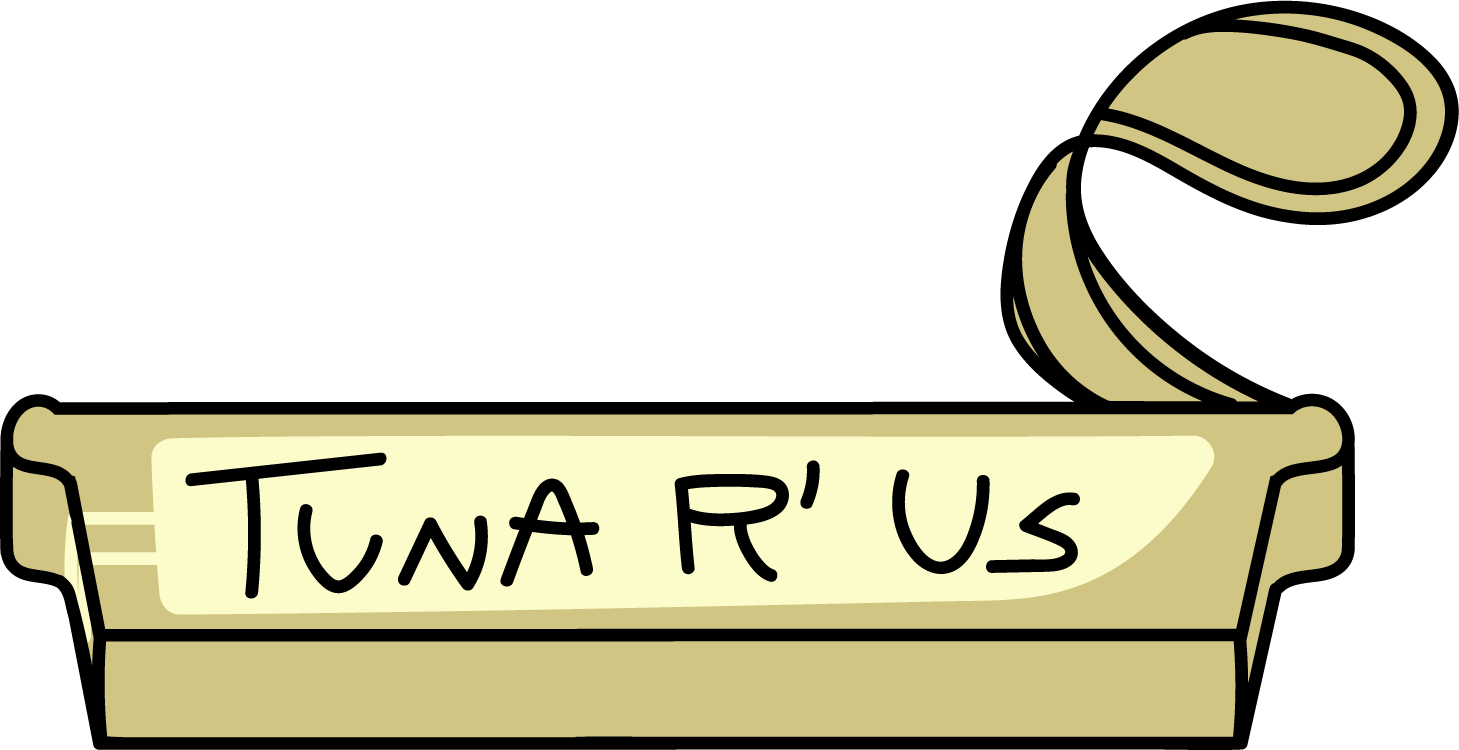
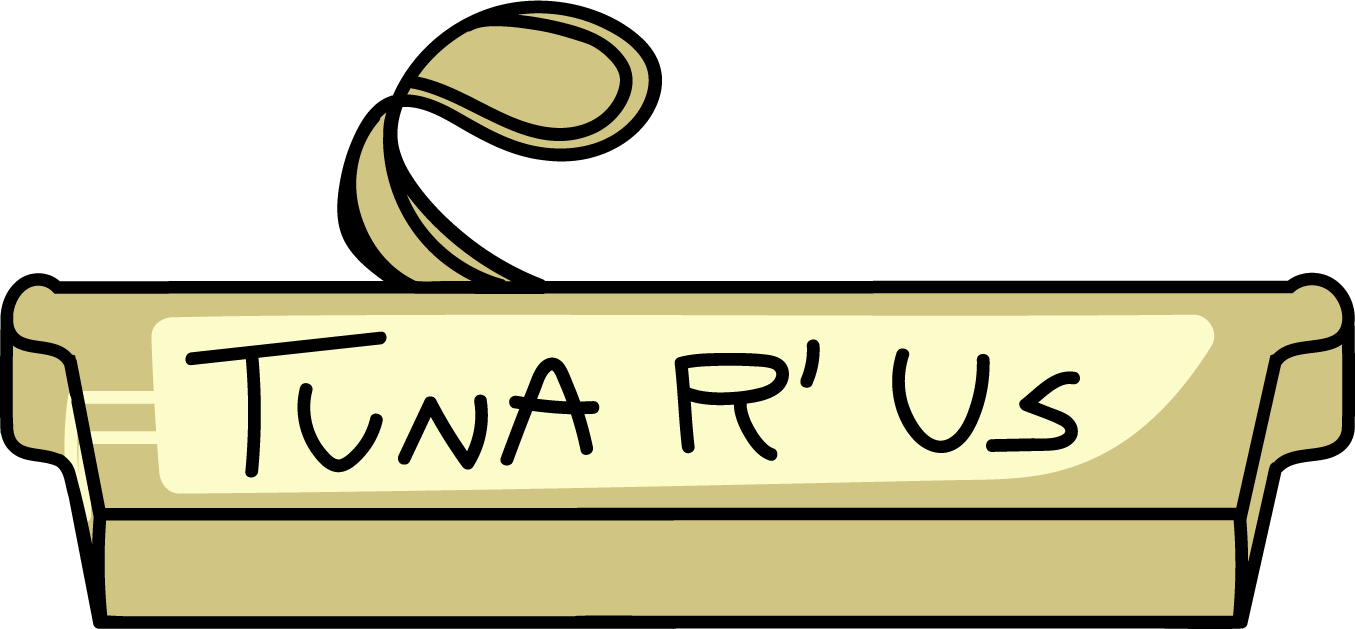
tuna rip

diff --git a/game.js b/game.js
@@ -269,14 +269,18 @@ window.addEventListener('DOMContentLoaded', (event) => {
                 document.getElementById('chickenbox').style.display = 'block';
                 document.getElementById('ripbox').style.opacity = '1';
                 document.getElementById('chickenboxripped').style.opacity = '1';
+                document.getElementById('riptext').style.opacity= '1'
+                document.getElementById('riptext').innerHTML = "Use <br> those <br> claws, <br> <b>Kitty!</b></i>"
 
                 happyKitty.style.opacity = 1;
                     happyKitty.style.left = '485px';
                     tutorial2.innerHTML = `Mmmmm! Kitty <b>definitely</b> likes chicken!`
             } else if (JSON.parse(sessionStorage.getItem('treat-choice')).id === "treat-thought") {
                 document.getElementById('text2').style.opacity = '1'
-                document.getElementById('text2').style.left = '170px'
-                document.getElementById('text2').innerHTML = '<b>What?  No!</b> <br>There\'s <b><i>no TREATS!</i></b>'
+                document.getElementById('text2').style.left = '135px'
+                document.getElementById('text2').innerHTML = '<b>What?  No!</b> <br>There are <b><i>no more TREATS!</i></b>'
+                document.getElementById('riptext').style.opacity= '1'
+                document.getElementById('riptext').innerHTML = "Use <br> those <br> claws, <br> <b>Kitty!</b></i>"
                 document.getElementById('treatbagcounter').style.display = 'block';
                 document.getElementById('treatbagopen').style.display = 'block';
                 document.getElementById('ripbag').style.opacity = '1';
@@ -284,8 +288,15 @@ window.addEventListener('DOMContentLoaded', (event) => {
                     happyKitty.style.left = '485px';
                     tutorial2.innerHTML = `Mmmmm! Kitty <b>definitely</b> likes her treats!`
             } else if (JSON.parse(sessionStorage.getItem('treat-choice')).id === "tuna-thought") {
-                // document.getElementById('tunacounter').style.display = 'block';
-                // document.getElementById('tunaopen').style.display = 'block';
+                document.getElementById('text2').style.opacity = '1'
+                document.getElementById('text2').style.left = '150px'
+
+
+                document.getElementById('text2').innerHTML = '<b>What?  No!</b> <br>There is <b><i>no more TUNA!</i></b>'
+                document.getElementById('tunacounter').style.opacity = '1';
+                document.getElementById('riptuna').style.opacity = '1';
+                document.getElementById('riptext').style.opacity= '1'
+                document.getElementById('riptext').innerHTML = "<i>Get it</i> <br> open, <br> <b>Kitty!</b>"
                 happyKitty.style.opacity = 1;
                     happyKitty.style.left = '450px';
                     tutorial2.innerHTML = `Mmmmm! Kitty <b>definitely</b> likes tuna!`

diff --git a/index.html b/index.html
@@ -119,7 +119,7 @@
                         <img src="/Assets/sneaky-kitty-sketch.png" alt="" id="wall-sneak">
                     </div>
                     <div class="mini-panel" id="mini-panel-bottom">
-                        <p id="riptext" class="storyText"><i>Use <br> those <br> claws, <br> <b>Kitty!</b></p></i>
+                        <p id="riptext" class="storyText"><i>Use <br> those <br> claws, <br> <b>Kitty!</b></i></p>
                         <img src="/Assets/treatpounce.png" alt="" id="rip">
                         <img src="Assets/treatbagrip.png" id="ripbag">
                         <img src="Assets/chickenboxrip.png" id="ripbox">

diff --git a/game.css b/game.css
@@ -251,13 +251,14 @@ h3{
     width: 9%;
     position: absolute;
     z-index: 1;
-    left: 312px;
-    top: 464px;
-    opacity: 1
+    left: 313px;
+    top: 472px;
+    opacity: 0
 }
 #riptext {
     left: 345px;
-    bottom: 345px
+    bottom: 345px;
+    opacity: 0;
 }
 
 #riptuna{
@@ -265,8 +266,8 @@ h3{
     position: absolute;
     z-index: 1;
     left: 160px;
-    top: 755px;
-    opacity: 1
+    top: 760px;
+    opacity: 0
 }
 
 #ripbag {
@@ -784,6 +785,7 @@ html, body {
     position: absolute;
     font-family: 'Comic Neue';
     font-size: large;
+    transition: opacity 1.5s ease-in-out;
 
 }
 
